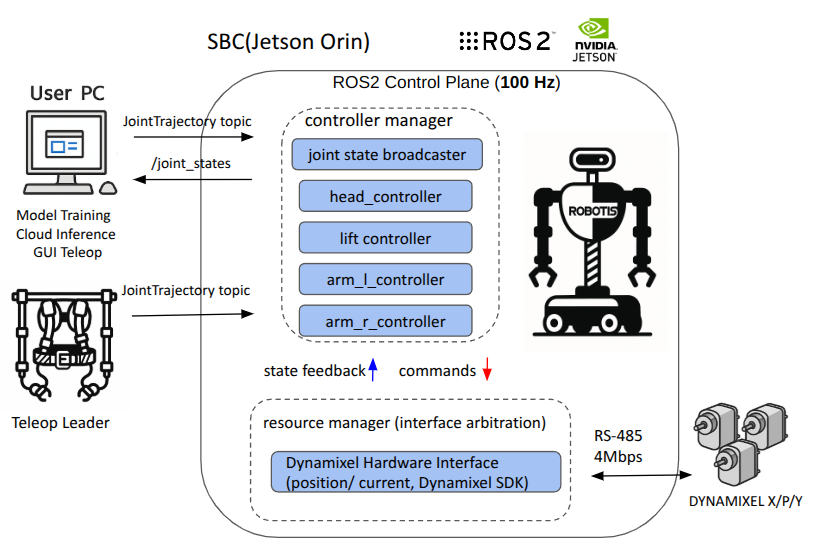
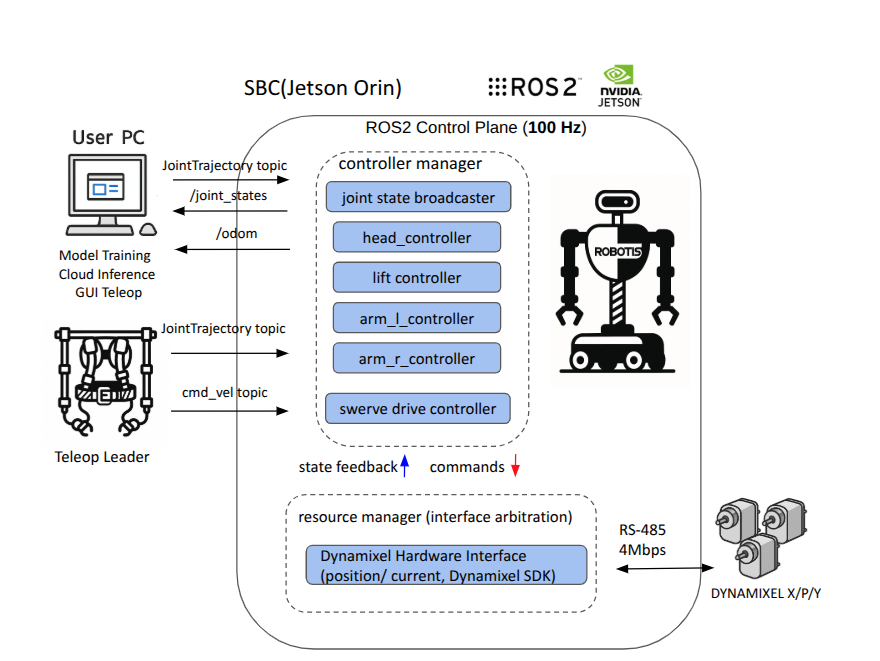
Update swerve drive controller at software.md

diff --git a/docs/software.md b/docs/software.md
@@ -83,10 +83,11 @@ DYNAMIXEL Actuators
 | `head_controller` | Head (pan/tilt) | 2 | `/leader/joystick_controller_left` |
 | `lift_controller` | Vertical lift | 1 | `/leader/joystick_controller_right` |
 | `joint_state_broadcaster` | All joints | – | Publishes to `/joint_states` |
+| `swerve_drive_controller` | Mobile base | 6 | `/cmd_vel` |
 
-All controllers (except `joint_state_broadcaster`) use the **`JointTrajectoryController`** type.
+All controllers (except `joint_state_broadcaster` and `swerve_drive_controller`) use the **`JointTrajectoryController`** type.
 
-By default, all joints operate in **position mode**.
+By default, all joints operate in **position mode**, except for the mobile base which operates in **velocity mode**.
 
 The last joint in each arm controller corresponds to the **gripper**.
 
@@ -113,6 +114,9 @@ The last joint in each arm controller corresponds to the **gripper**.
 
       joint_state_broadcaster:
         type: joint_state_broadcaster/JointStateBroadcaster
+
+      swerve_drive_controller:
+        type: ffw_swerve_drive_controller/SwerveDriveController
 
 /**:
   arm_l_controller:

diff --git a/docs/operation.md b/docs/operation.md
@@ -74,6 +74,7 @@ If you want to run the `Leader` and `Follower` separately in different terminals
    ```bash
    ros2 launch ffw_bringup ffw_bg2_leader_ai.launch.py
    ```
+
    or use the shortcut:
    ```bash
    ffw_lg2_leader_ai
